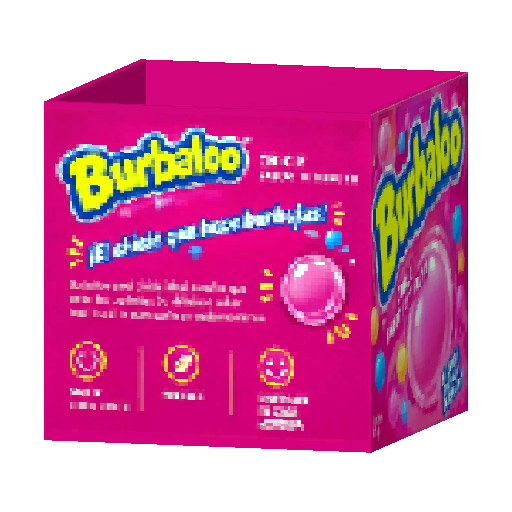
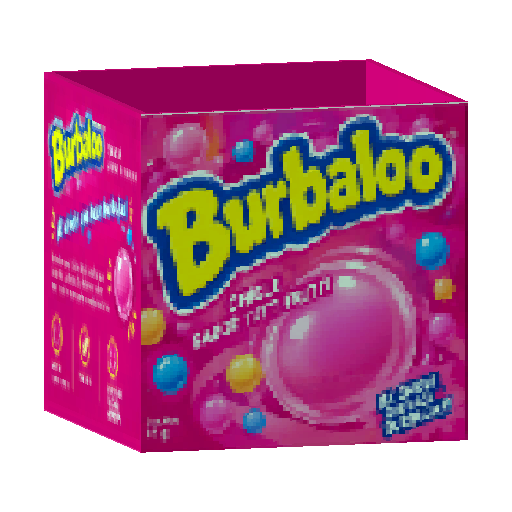
ui: ampliar lectura y corregir iconos y frente de Burbaloo

diff --git a/assets/ui/manada/README.md b/assets/ui/manada/README.md
@@ -17,8 +17,8 @@ durante la ejecución.
 | `tema.tres` | Adaptación a Godot | Colores, fuente, botones, campos, paneles y estados de foco |
 
 Las tres miniaturas son renders transparentes de 512 × 512 del modelo del juego.
-Conservan la orientación de `contenido_del_estante.tscn`. No usan productos de ejemplo de Figma
-que no existen en el registro actual.
+Usan las mallas de `contenido_del_estante.tscn`, con la cámara orientada hacia el frente de cada
+envase. No usan productos de ejemplo de Figma que no existen en el registro actual.
 
 El fondo se capturó en Godot a 1920 × 1080, sin HUD, desde la posición inicial del jugador,
 con su cámara apuntando a `(0.5, 1.0, -3.0)`. Conserva los muebles, productos y texturas actuales.
@@ -28,7 +28,8 @@ la imagen no contiene modelos ni iluminación tomados del fondo antiguo de Figma
 La adaptación conserva las acciones del juego: registrar con un clic y escribir notas libres.
 Las notas usan lista y detalle; no representan logros ni pistas desbloqueables. Las cantidades,
 los precios y los estados del registro salen del dominio. Las opciones Registro y Notas permanecen
-visibles a la derecha, con la opción actual marcada; el título izquierdo sólo indica la pantalla
+visibles como íconos a la derecha, con la opción actual marcada y el nombre al pasar el cursor;
+el título izquierdo sólo indica la pantalla
 actual. El código de Chats permanece disponible, sin acceso desde la navegación de esta entrega.
 
 El lienzo escala uniformemente dentro del viewport. No cambia la resolución del juego, la cámara
